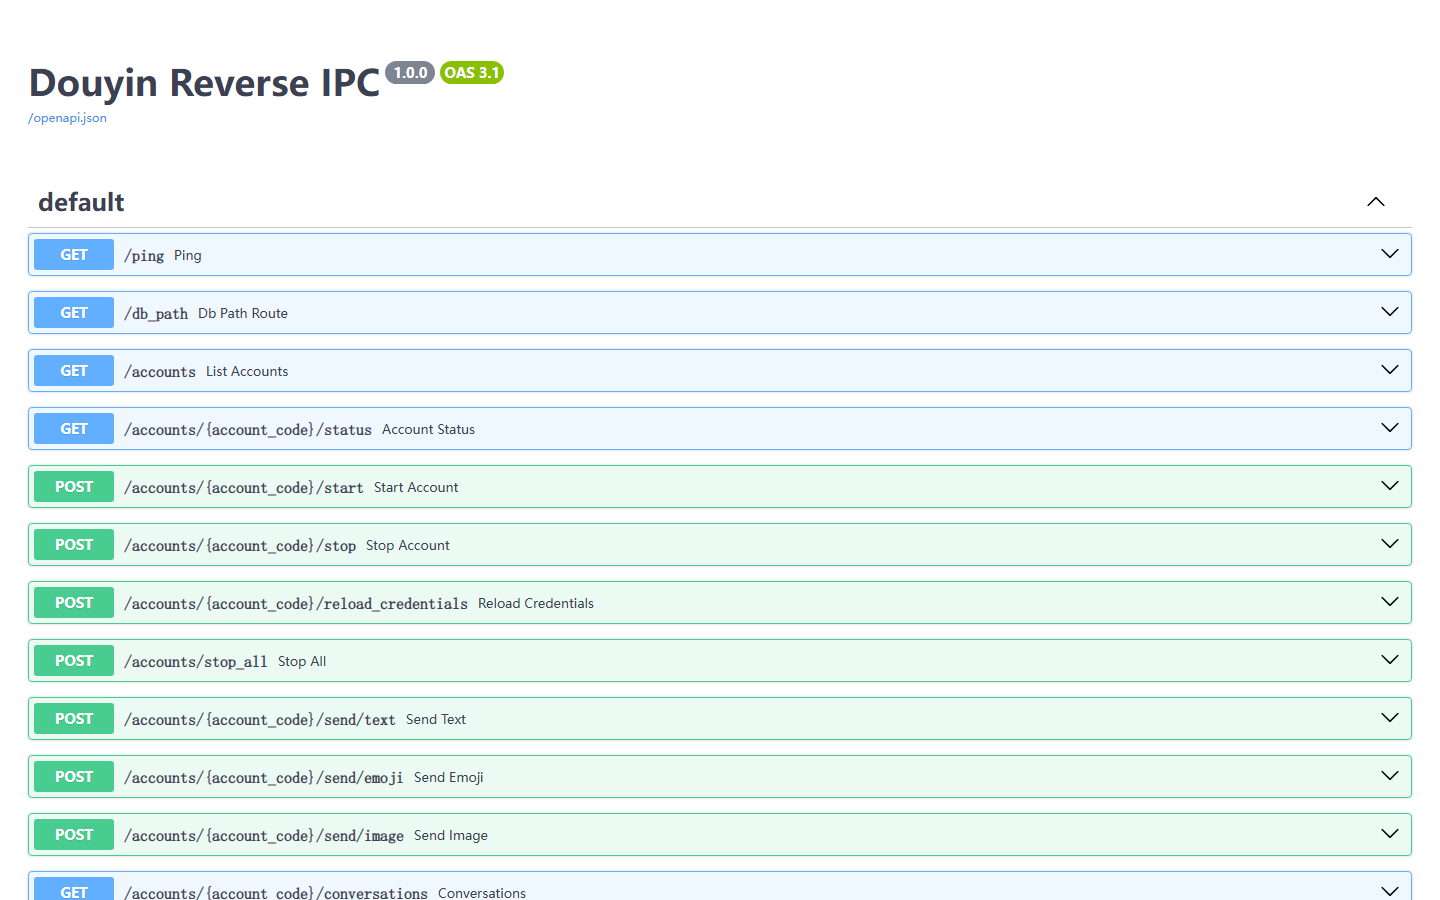
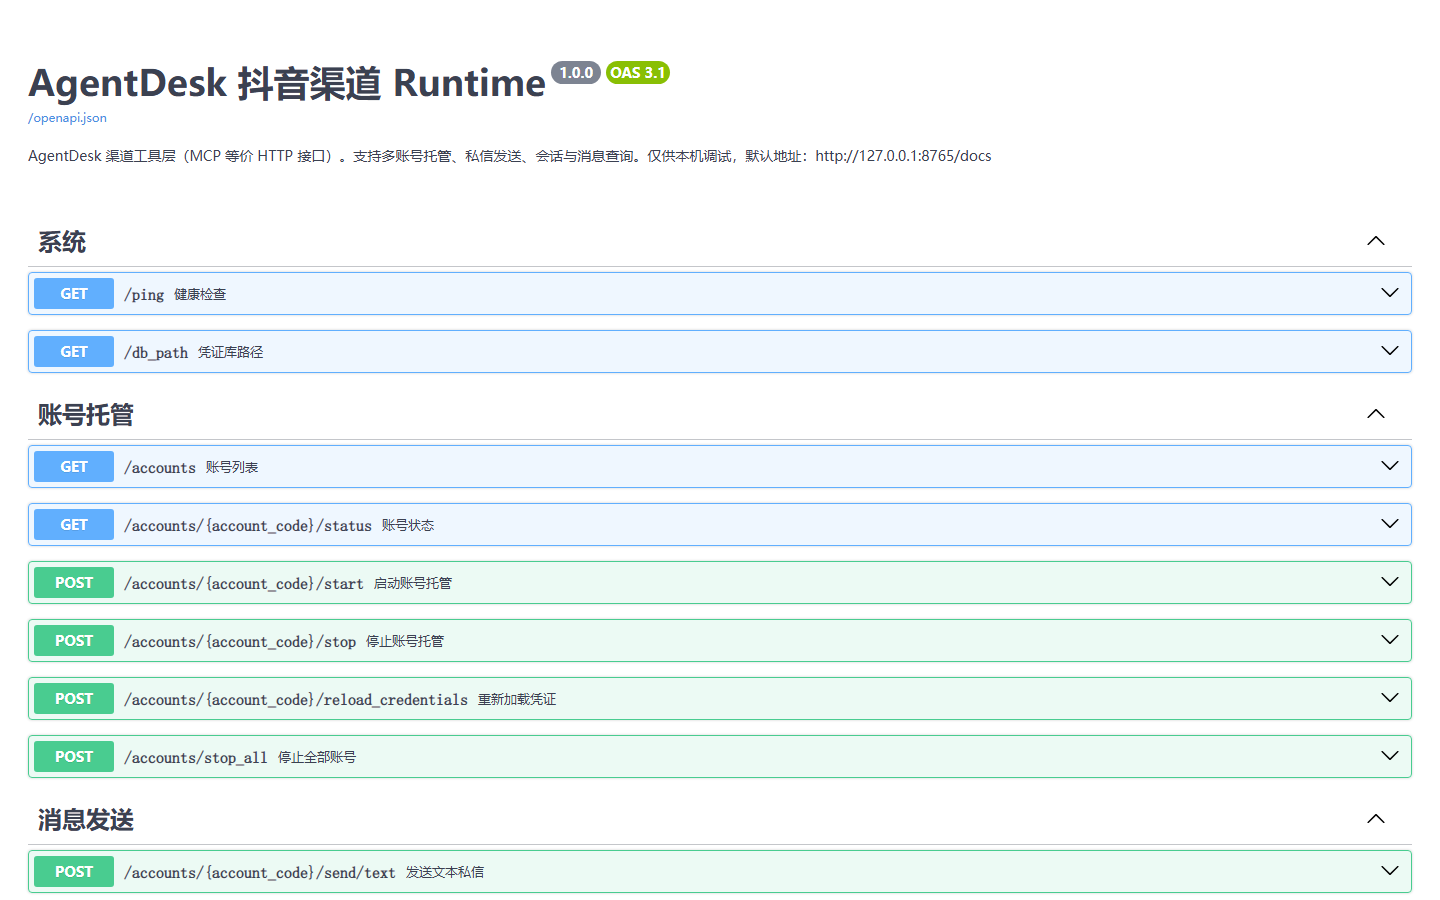
接口文档中文化：截图与契约说明更新为中文展示。

diff --git a/docs/12_附件索引.md b/docs/12_附件索引.md
@@ -1,6 +1,6 @@
 # AgentDesk 初赛提交附件索引
 
-压缩包建议名称：`AgentDesk_初赛提交_v4.2_20260729.zip`
+压缩包建议名称：`AgentDesk_初赛提交_v4.3_20260729.zip`
 
 ## 文件清单
 
@@ -12,7 +12,7 @@
 | `04_Skill清单.md` | Skill 能力抽象 | ✅ |
 | `05_多Agent闭环说明.md` | 端到端闭环说明 | ✅ |
 | `06_架构图.png` | AgentTeams 分层架构图 | ✅ |
-| `07_系统截图/*.png` | Runtime API + 打码日志证据 | ✅ 已补 |
+| `07_系统截图/*.png` | 在线接口文档 + 打码日志证据 | ✅ 已补 |
 | `contracts/*.json` | MCP 等价工具契约 | 建议 |
 | `08_Demo演示脚本.md` | Demo 录屏剧本 | ✅ 强烈建议 |
 | `09_代码仓库说明.md` | 独立 Runtime 与仓库结构 | ✅ 强烈建议 |
@@ -27,7 +27,7 @@
 | 作品名称 | 私域客服自治工作台（AgentDesk） |
 | 代码仓库 | https://github.com/icebreak119/AgentDesk |
 | Demo 链接 | **公网视频 URL**（建议拍 8765/docs + 日志链路） |
-| 作品附件 | `AgentDesk_初赛提交_v4.2_20260729.zip` |
+| 作品附件 | `AgentDesk_初赛提交_v4.3_20260729.zip` |
 
 ## 截图目录说明（07）
 
